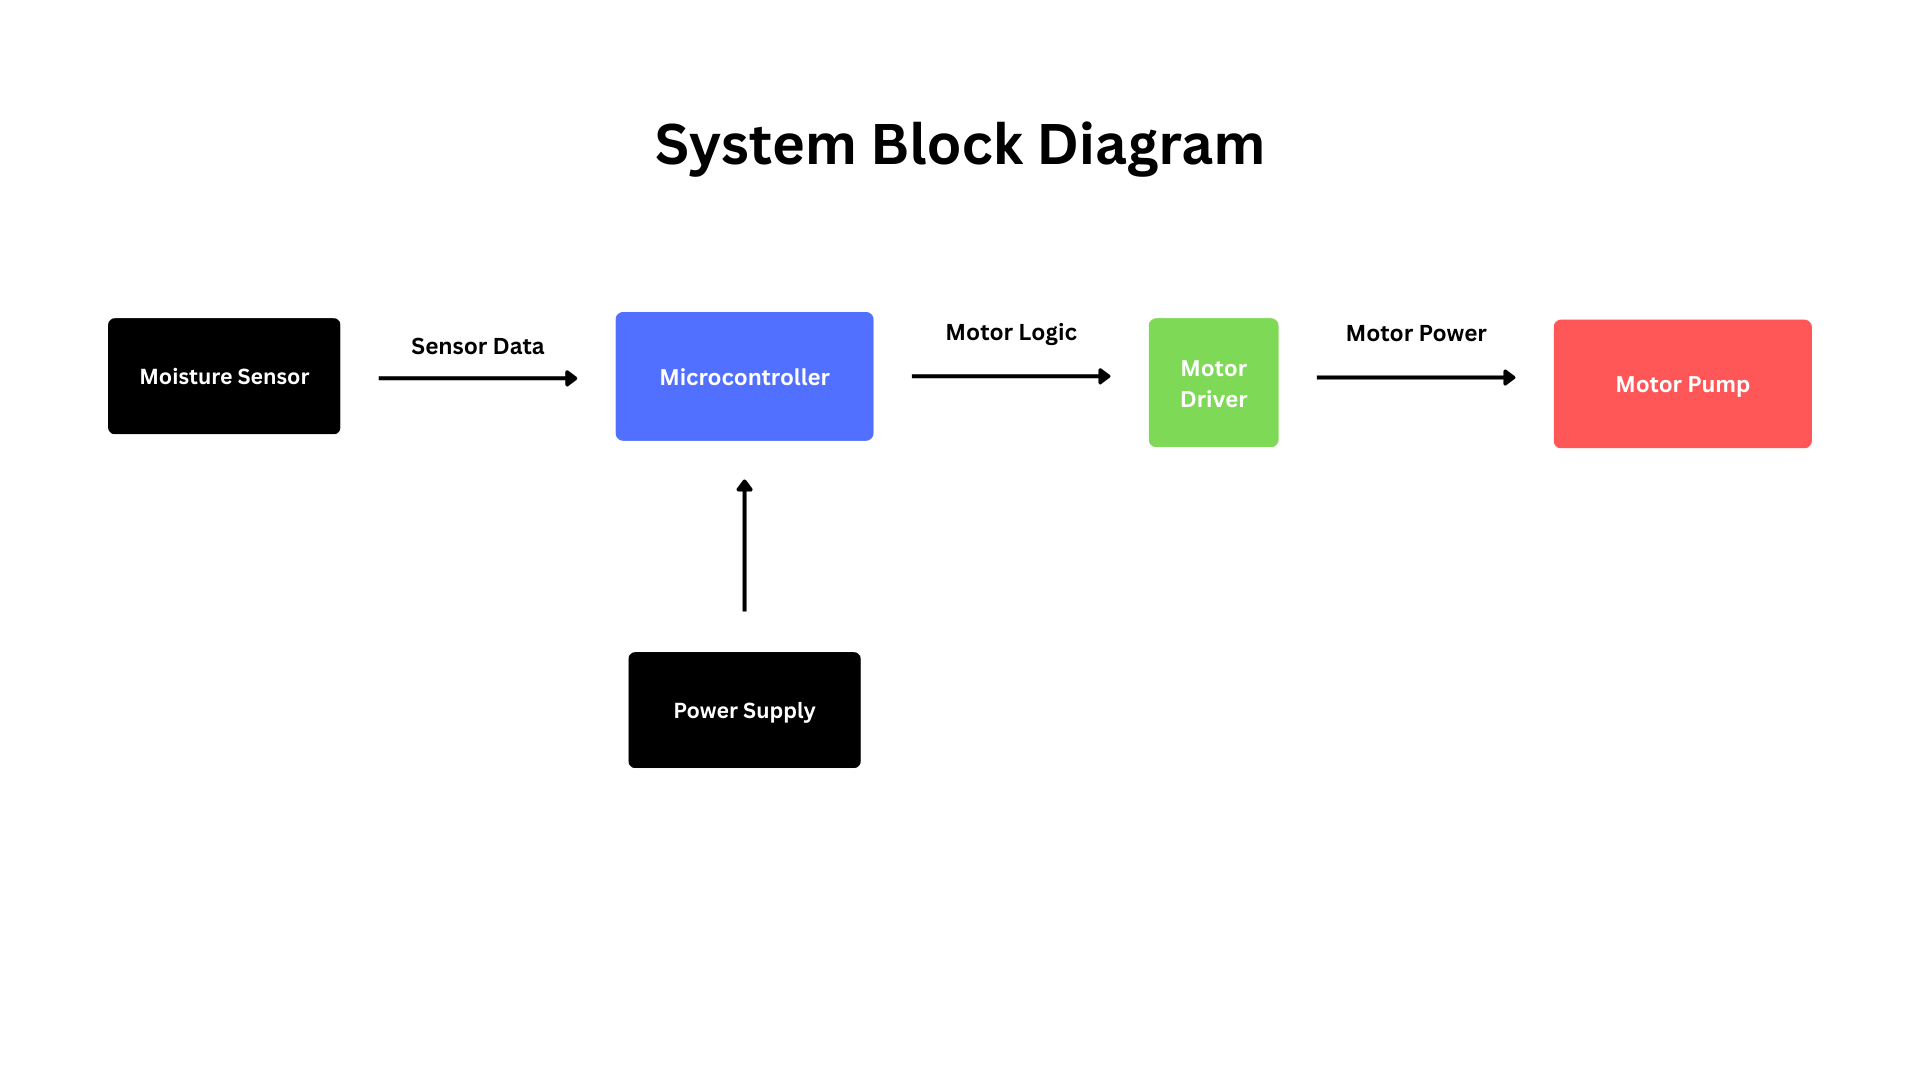
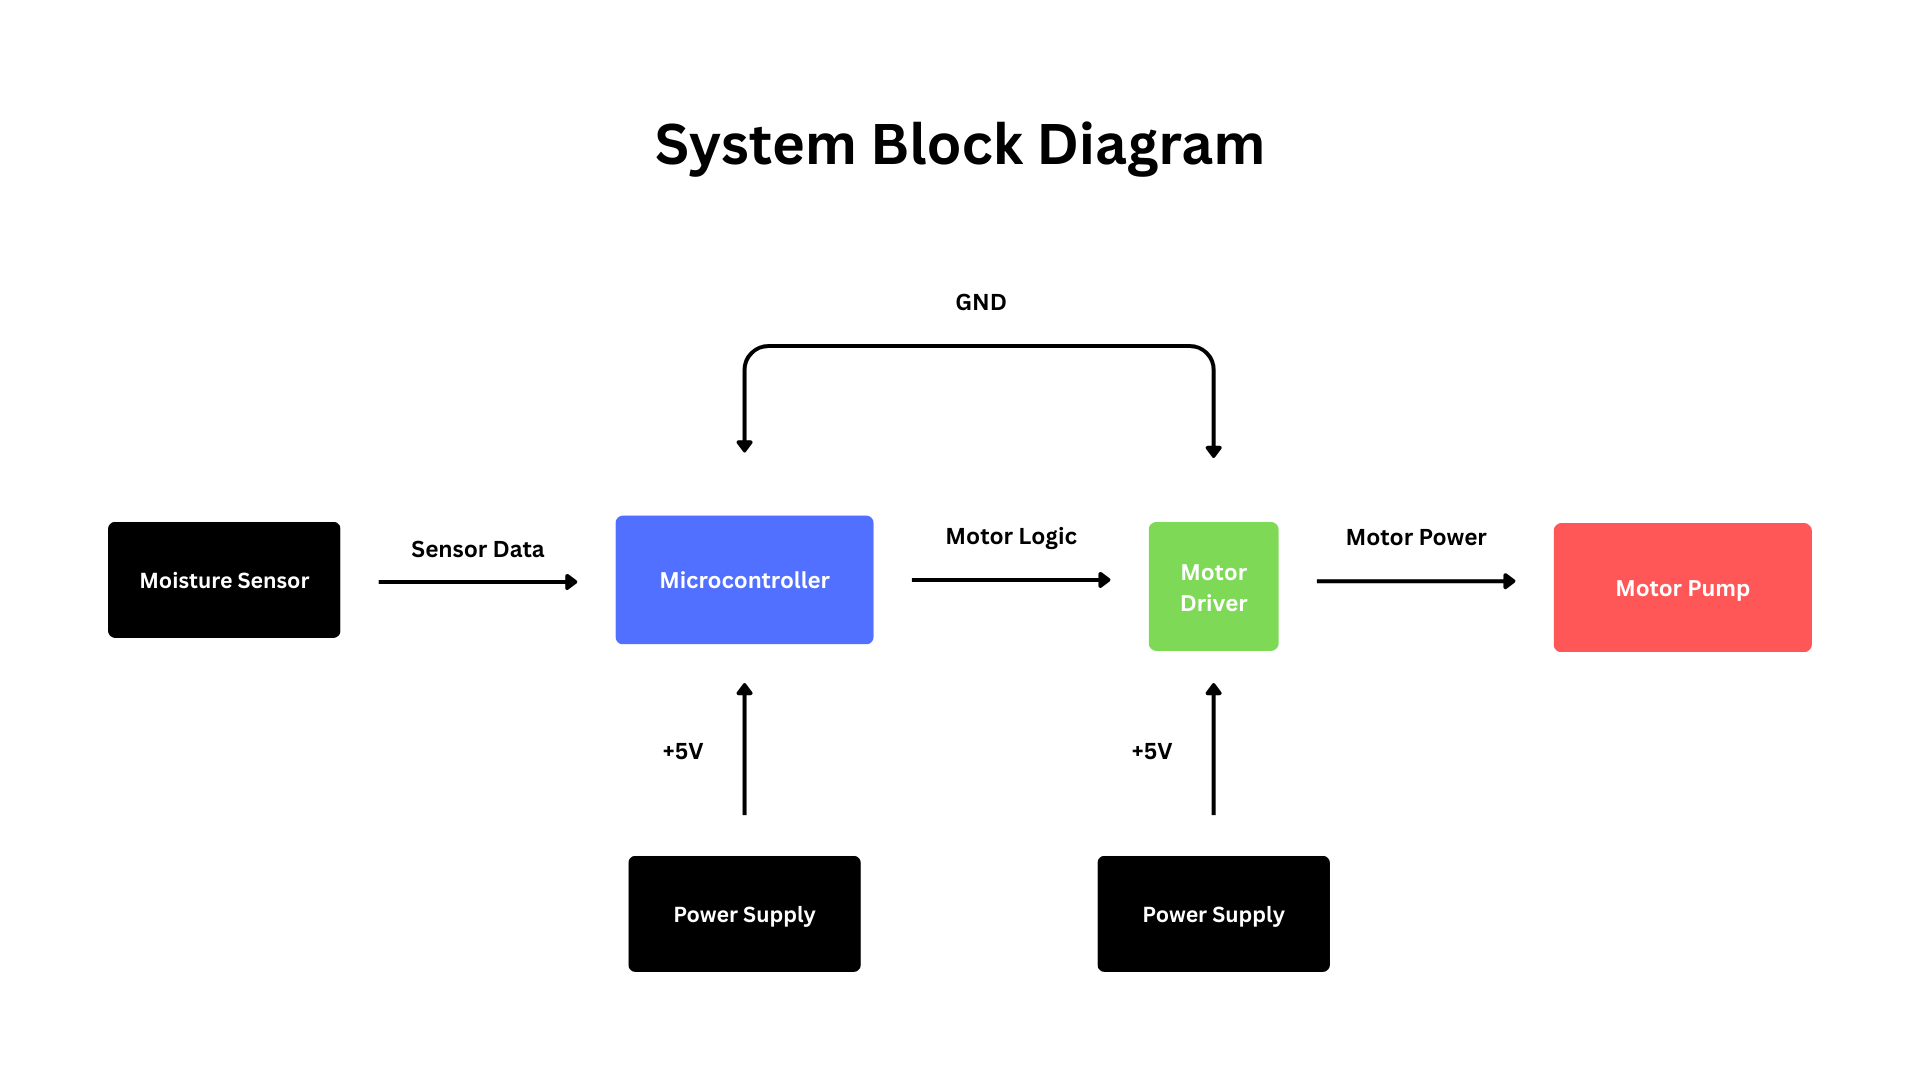
Updated block diagram to represent separate power supplies for sensor and motor driver.

diff --git a/src/main.cpp b/src/main.cpp
@@ -14,8 +14,6 @@
 enum State { INIT, IDLE, CHECK, WATERING, FAULT, RECOVERY }; 
 enum FaultCode { NONE, SENSOR_INVALID, TIMER_INVALID }; 
 
-// TODO: TIMER_INVALID recovery logic
-
 // Constants
 const unsigned long T_sample = 1000000UL;
 const unsigned long T_budget = 500000UL;
@@ -29,8 +27,7 @@ unsigned long sampleStart, sampleEnd, sampleTime;
 unsigned long pumpOn, pumpOff;
 // Counters
 unsigned scheduleCounter;
-unsigned budgetMisses = 0, budgetMissesThisCycle = 0; 
-unsigned scheduleMisses, scheduleMissesThisCycle;
+unsigned budgetMisses = 0, scheduleMisses = 0;
 unsigned faultConfirmCounter = 0, recoverConfirmCounter = 0;
 // Sensor Values
 unsigned moistureValue, lastMoistureValue, deltaMoisture;
@@ -77,8 +74,7 @@ void updateStateMachine() {
       break;
     case CHECK:
       lateness = now - nextRelease;
-      scheduleMissesThisCycle = lateness / T_sample;
-      scheduleMisses += scheduleMissesThisCycle;
+      scheduleMisses += lateness / T_sample;
       nextRelease += T_sample;
 
       sampleStart = micros();
@@ -86,10 +82,9 @@ void updateStateMachine() {
       sampleEnd = micros();
       sampleTime = sampleEnd - sampleStart;
 
-      budgetMissesThisCycle = sampleTime / T_budget;
-      budgetMisses += budgetMissesThisCycle;
+      budgetMisses += sampleTime / T_budget;
 
-      if (scheduleMissesThisCycle > SCHEDULE_MISS_MAX || budgetMissesThisCycle > BUDGET_MISS_MAX) {
+      if (scheduleMisses > SCHEDULE_MISS_MAX || budgetMisses > BUDGET_MISS_MAX) {
         lastFaultCode = TIMER_INVALID;
         faultCount++;
         faultFlag = true;
@@ -161,24 +156,24 @@ void updateStateMachine() {
         case TIMER_INVALID:
           Serial.println("Timer Fault");
           lateness = now - nextRelease;
-          scheduleMissesThisCycle = lateness / T_sample;
-          nextRelease += (scheduleMissesThisCycle + 1) * T_sample;
+          scheduleMisses= lateness / T_sample;
+          nextRelease += T_sample;
 
           sampleStart = micros();
           moistureValue = analogRead(SENSOR_PIN);
           sampleEnd = micros();
           sampleTime = sampleEnd - sampleStart;
 
-          budgetMissesThisCycle = sampleTime / T_budget;
+          budgetMisses= sampleTime / T_budget;
 
           Serial.print("Schedule Misses This Cycle: ");
-          Serial.println(scheduleMissesThisCycle);
+          Serial.println(scheduleMisses);
           Serial.print("Budget Misses This Cycle: ");
-          Serial.println(budgetMissesThisCycle);
+          Serial.println(budgetMisses);
           Serial.print("Recover Confirm Counter: ");
           Serial.println(recoverConfirmCounter);
 
-          if (scheduleMissesThisCycle <= SCHEDULE_MISS_MAX && budgetMissesThisCycle <= BUDGET_MISS_MAX) 
+          if (scheduleMisses <= SCHEDULE_MISS_MAX && budgetMisses <= BUDGET_MISS_MAX) 
           {
             recoverConfirmCounter++;
             if (recoverConfirmCounter > RECOVERY_CONFIRM_COUNT)
@@ -198,6 +193,8 @@ void updateStateMachine() {
       nextRelease = micros() + T_sample;
       faultConfirmCounter = 0;
       recoverConfirmCounter = 0;
+      scheduleMisses = 0;
+      budgetMisses = 0;
       faultFlag = false;
       state = IDLE;
       break;
